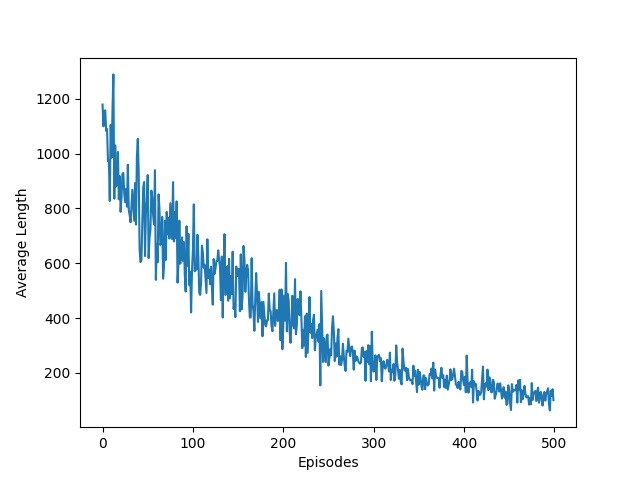
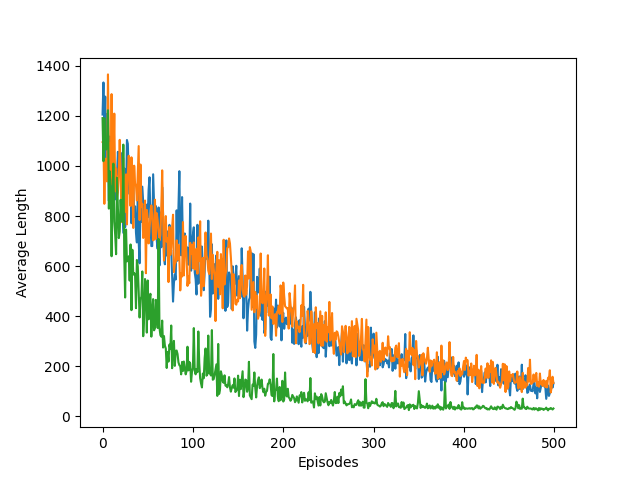
feat: Add plotting function

diff --git a/MainMultiGoal.py b/MainMultiGoal.py
@@ -18,7 +18,6 @@ def plot_average_length(lengths, filename="mutli_goal_lengths.png"):
     plt.figure()
     for key, value in lengths.items():
         plt.plot(value, label=key)
-    plt.plot(lengths)
     plt.xlabel("Episodes")
     plt.ylabel("Average Length")
     plt.savefig(os.path.join("imgs", filename))
@@ -95,12 +94,12 @@ if __name__ == '__main__':
     num_of_episodes = 500
     
     functions = [run_q_learning, run_sarsa, run_n_step]
-    agents_avg_returns = {}
+    agents_avg_lengths = {}
     for function in functions:
-        average_returns = np.zeros(num_of_episodes)
+        average_lengths = np.zeros(num_of_episodes)
         for i in range(num_of_experiments):
             env = RoomEnv()
-            returns = function(env, num_of_episodes)
-            average_returns += (returns - average_returns) / (i + 1)
-        agents_avg_returns[function.__name__] = average_returns
-    plot_average_length(agents_avg_returns)
+            lengths = function(env, num_of_episodes)
+            average_lengths += (lengths - average_lengths) / (i + 1)
+        agents_avg_lengths[function.__name__] = average_lengths
+    plot_average_length(agents_avg_lengths)
